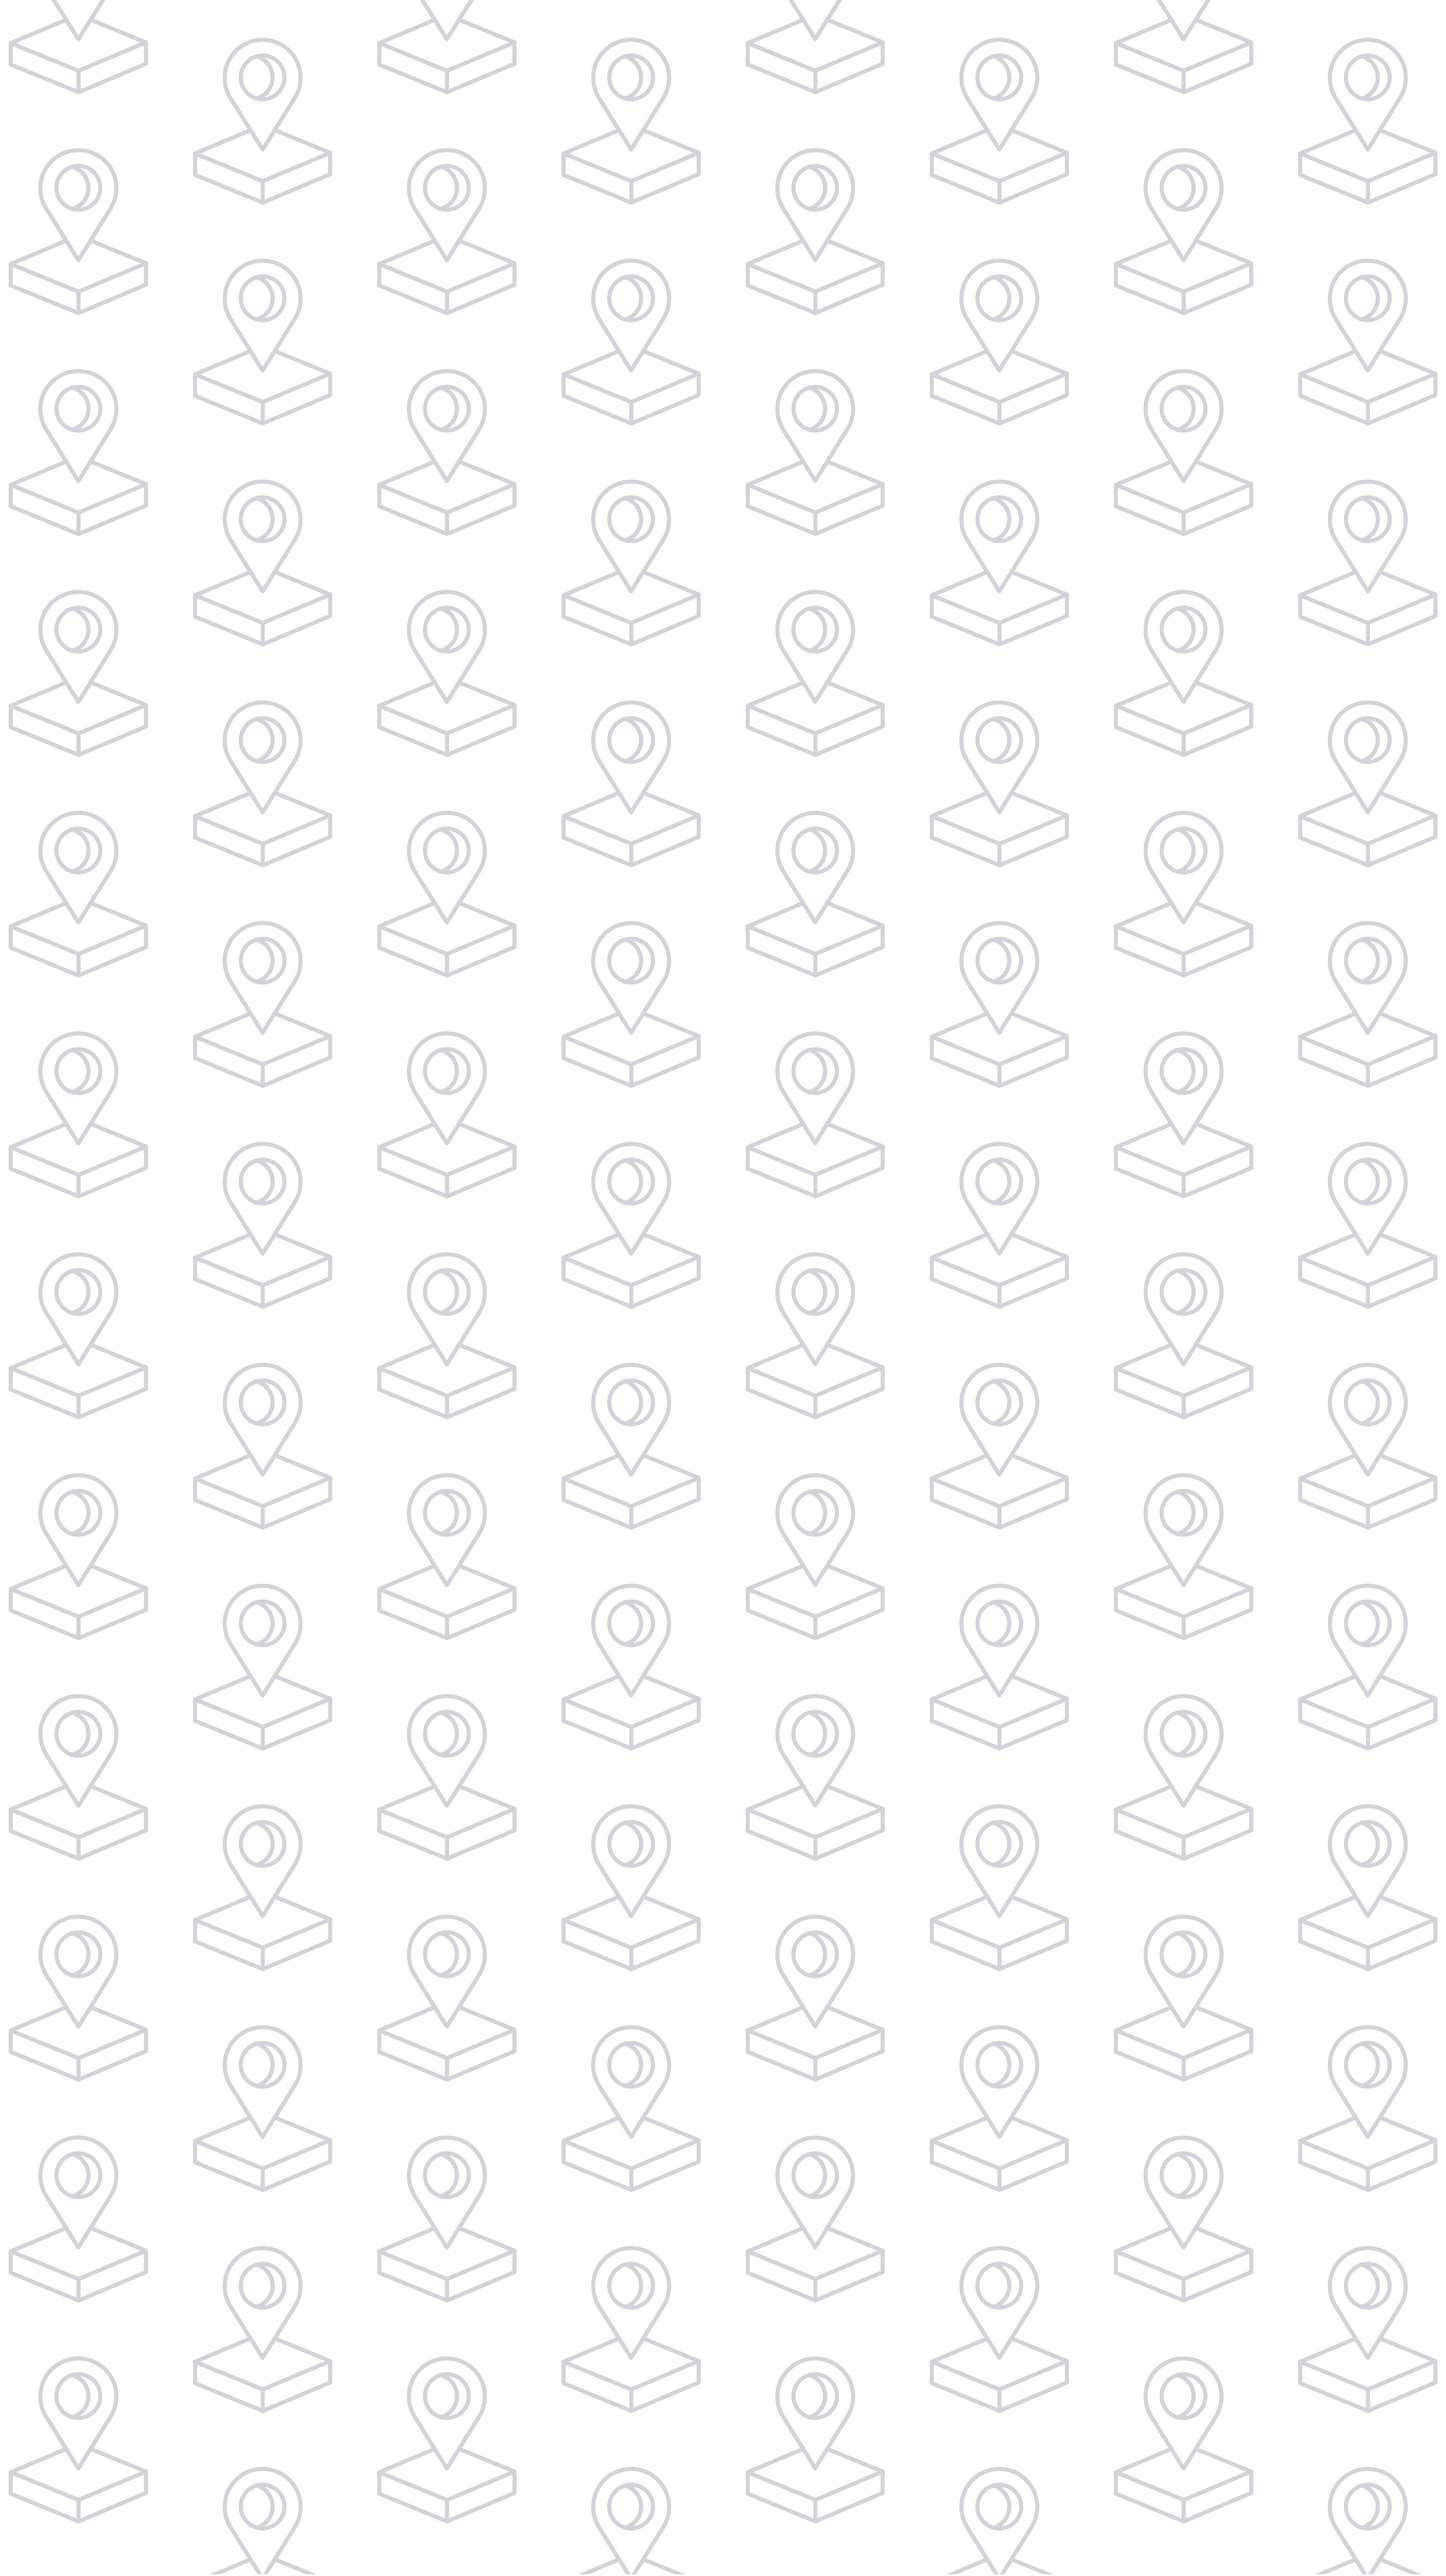
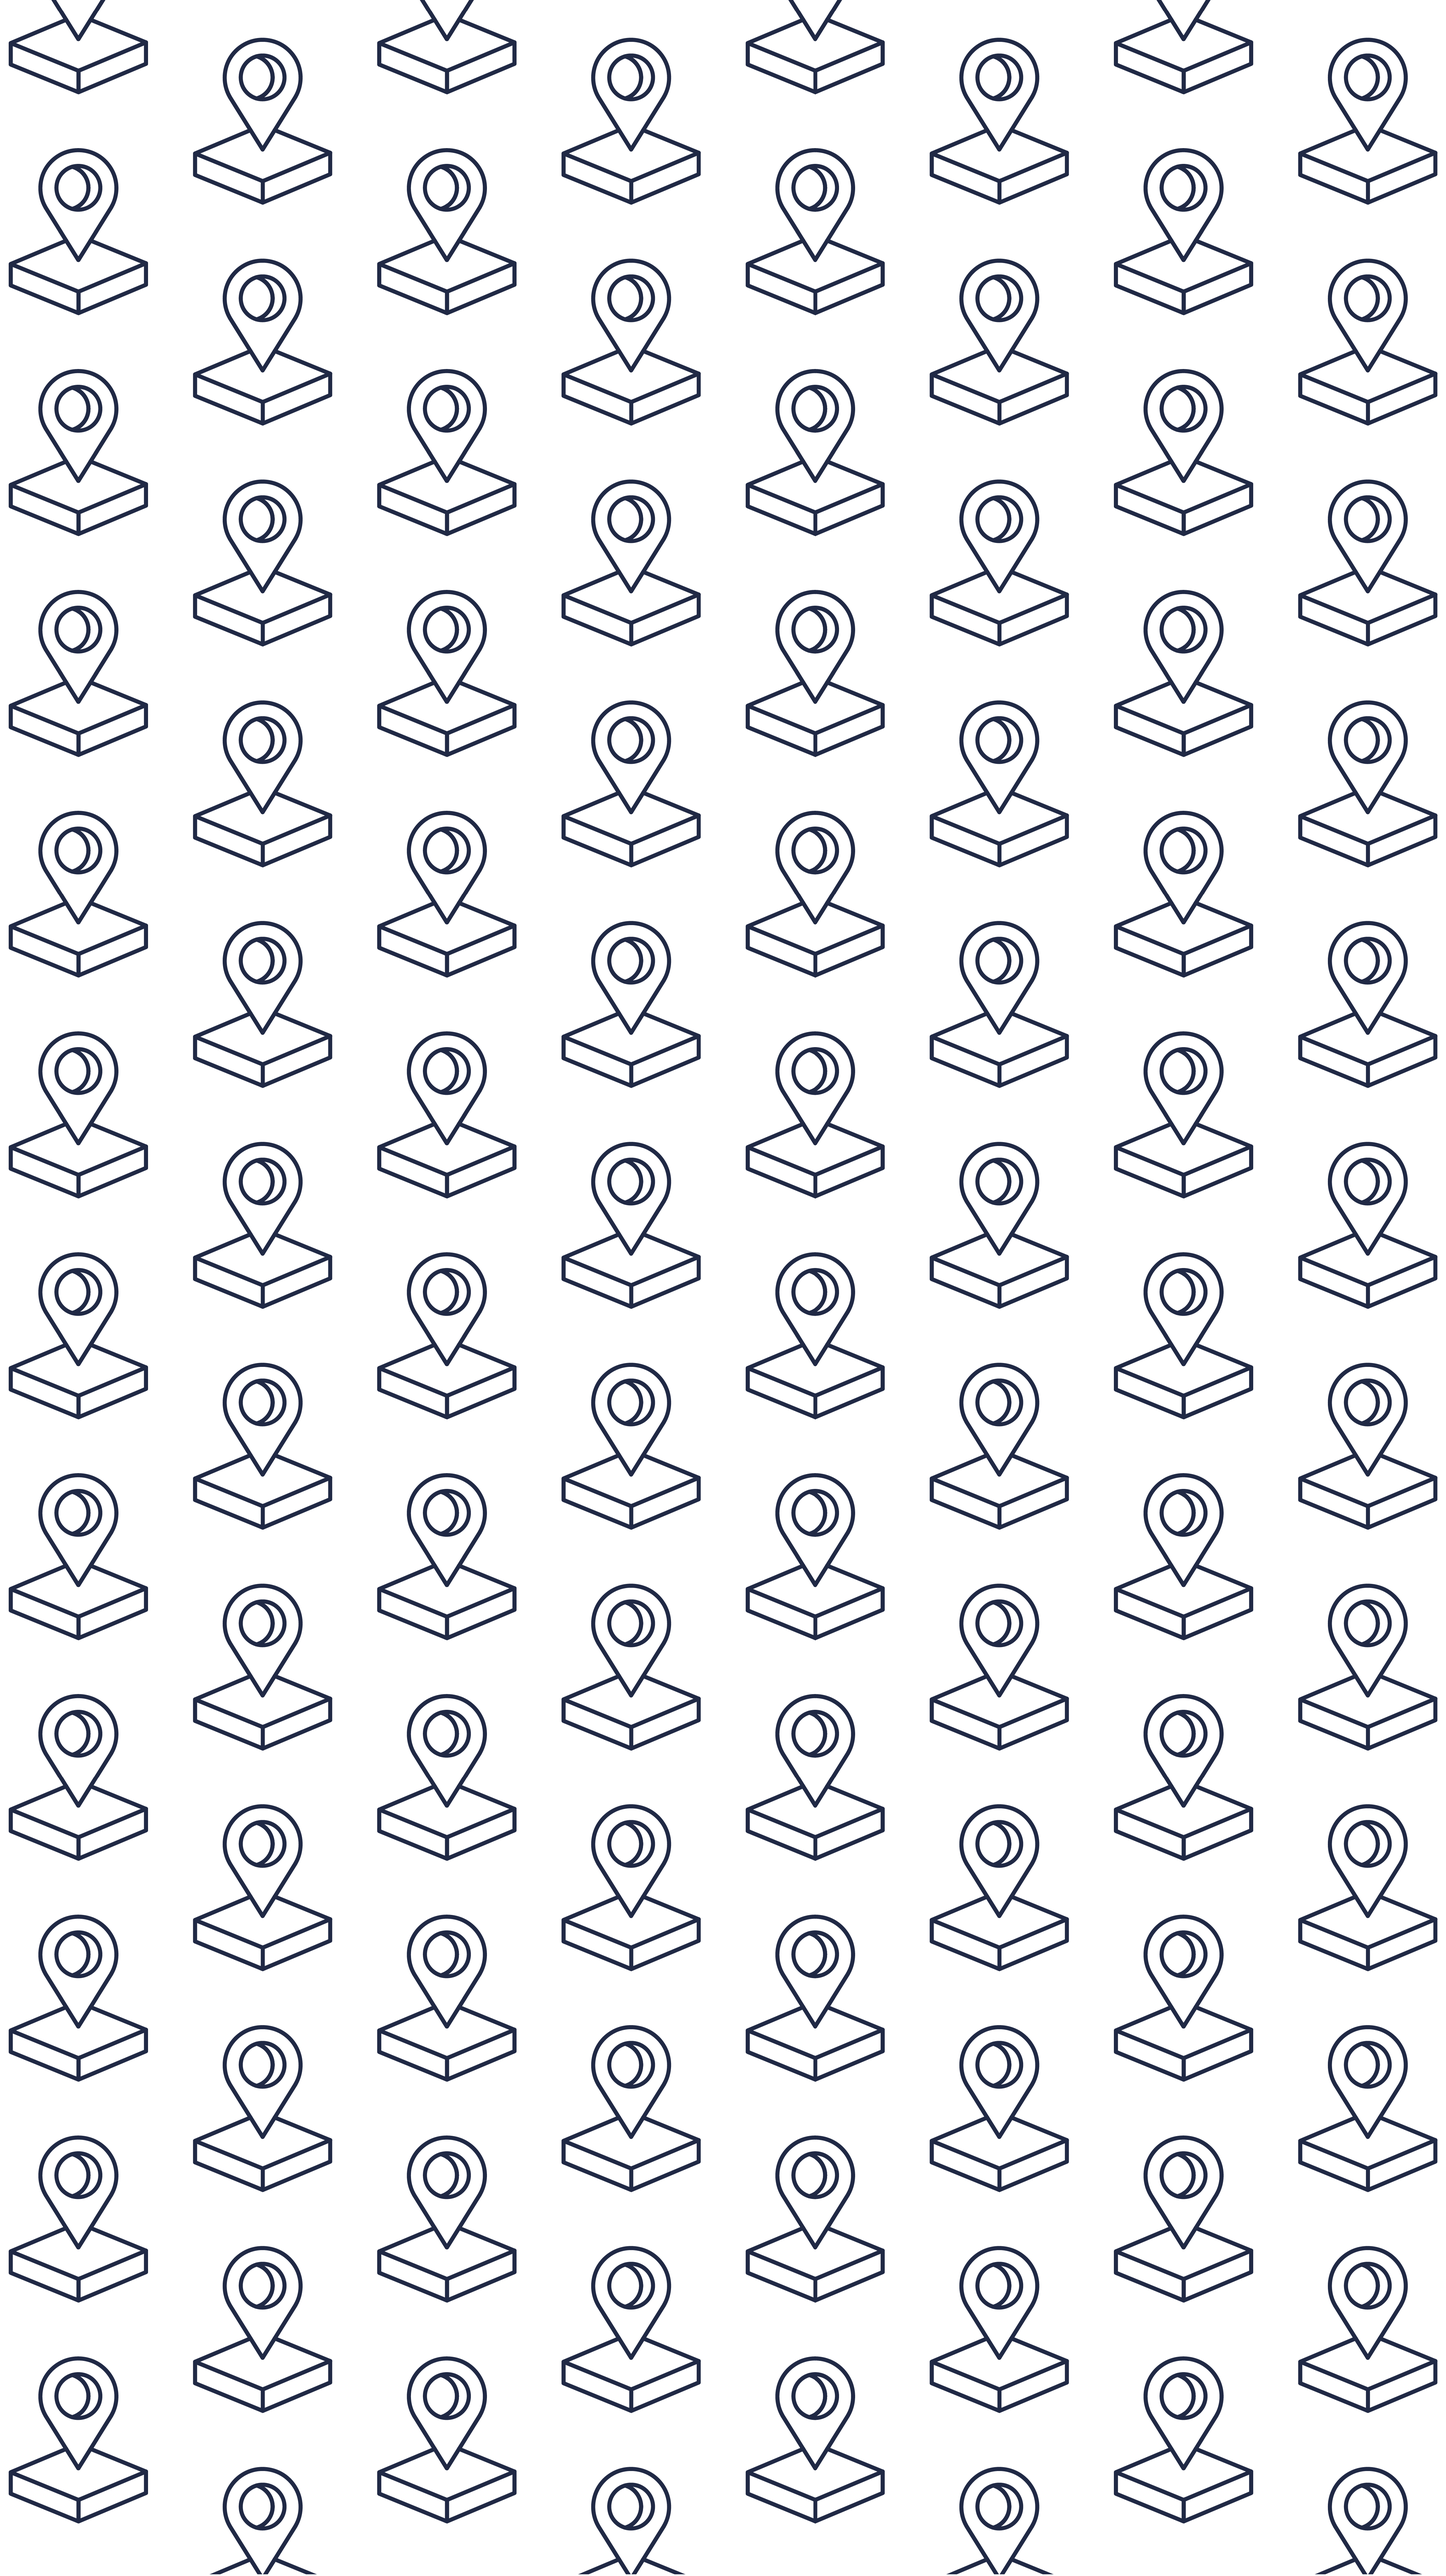
Changed current color

diff --git a/src/pages/WelcomeScreen.jsx b/src/pages/WelcomeScreen.jsx
@@ -1,7 +1,7 @@
 import React from "react";
 import Button from "@mui/material/Button";
 
-import LogoTitle from "../assets/images/logo/white/paseo-alcalde-title.png";
+import LogoApp from "../assets/images/logo/paseo-literario.png";
 import { Box, Container, Paper } from "@mui/material";
 import { useNavigate } from "react-router-dom";
 
@@ -10,7 +10,7 @@ import LocationPattern from "../assets/images/patterns/locations.png";
 const styles = {
   paperContainer: {
     background: "#202945",
-    backgroundImage: `linear-gradient(180deg, rgba(32, 41, 69, 0.89) 40%, rgba(87, 119, 222, 0.82) 95%), url(${LocationPattern})`,
+    backgroundImage: `linear-gradient(180deg, rgba(0, 109, 130, 1) 35%, rgba(177, 212, 205, 0.82) 95%), url(${LocationPattern})`,
     width: "100%",
     height: "100vh",
     backgroundSize: "cover",
@@ -29,17 +29,17 @@ const WelcomeScreen = () => {
       <Container component="main" maxWidth="xs">
         <Box
           sx={{
-            paddingTop: 15,
-            paddingBottom: 20,
+            paddingTop: 20,
+            paddingBottom: 24,
             display: "flex",
             justifyContent: "center",
             alignContent: "center",
           }}
         >
           <img
-            src={LogoTitle}
+            src={LogoApp}
             alt="Logo de Paseo Alcalde"
-            width="120px"
+            width="250px"
             height="auto"
           />
         </Box>
@@ -48,7 +48,6 @@ const WelcomeScreen = () => {
           fullWidth
           variant="contained"
           size="large"
-          sx={{ mt: 3, mb: 2 }}
           style={{
             backgroundColor: "white",
             color: "#353F5F",
@@ -63,7 +62,7 @@ const WelcomeScreen = () => {
           variant="contained"
           size="large"
           color="primary"
-          sx={{ mt: 3, mb: 2 }}
+          sx={{ mt: 2 }}
           onClick={() => navigate("register")}
         >
           Registrarse

diff --git a/src/pages/AppScreen.jsx b/src/pages/AppScreen.jsx
@@ -16,7 +16,7 @@ import { useNavigate } from "react-router-dom";
 
 const styles = {
   paperContainer: {
-    backgroundImage: `linear-gradient(to bottom, rgba(32, 41, 69, 0.9) 1%, rgba(244, 244, 248, 0.5) 75%, rgba(244, 245, 248, 1) 100%), url(${Jalisco})`,
+    backgroundImage: `linear-gradient(to bottom, rgba(0, 109, 130, 1) 0%, rgba(244, 244, 248, 0.2) 35%, rgba(244, 245, 248, 1) 100%), url(${Jalisco})`,
     width: "100%",
     height: "50vh",
     backgroundSize: "cover",

diff --git a/src/config/theme.js b/src/config/theme.js
@@ -29,7 +29,7 @@ const theme = responsiveFontSizes(
         default: "#F4F5F8", //gray
       },
       primary: {
-        main: "#202945", //indigo
+        main: "#006d82", // teal blue
       },
       secondary: {
         main: "#FF8C40", //orange
@@ -57,6 +57,7 @@ const theme = responsiveFontSizes(
           root: {
             borderRadius: 28,
             textTransform: "capitalize",
+            fontSize: 15,
           },
         },
       },
